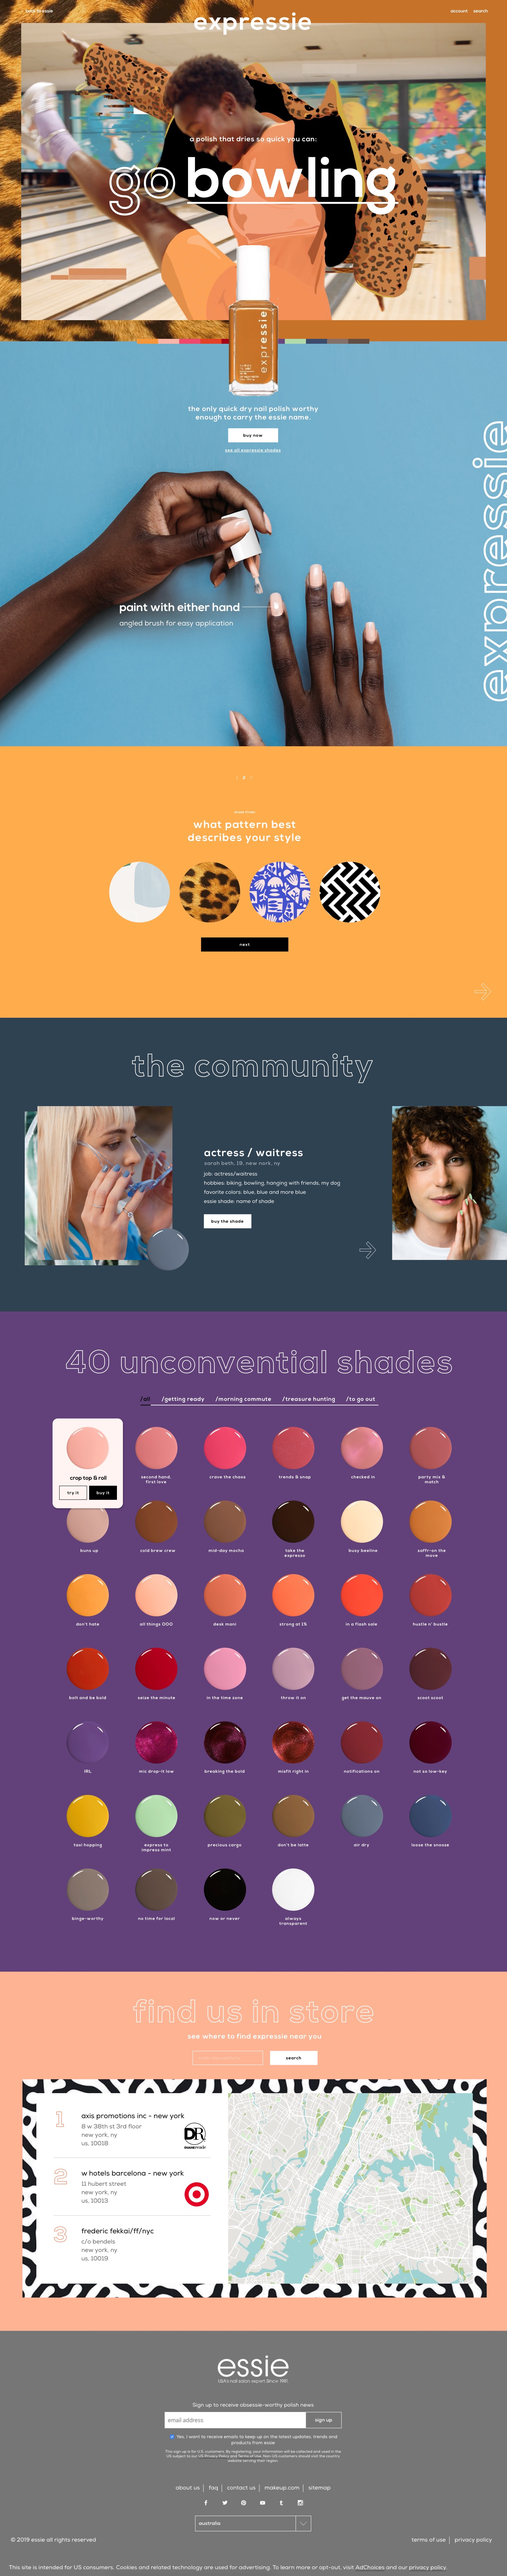
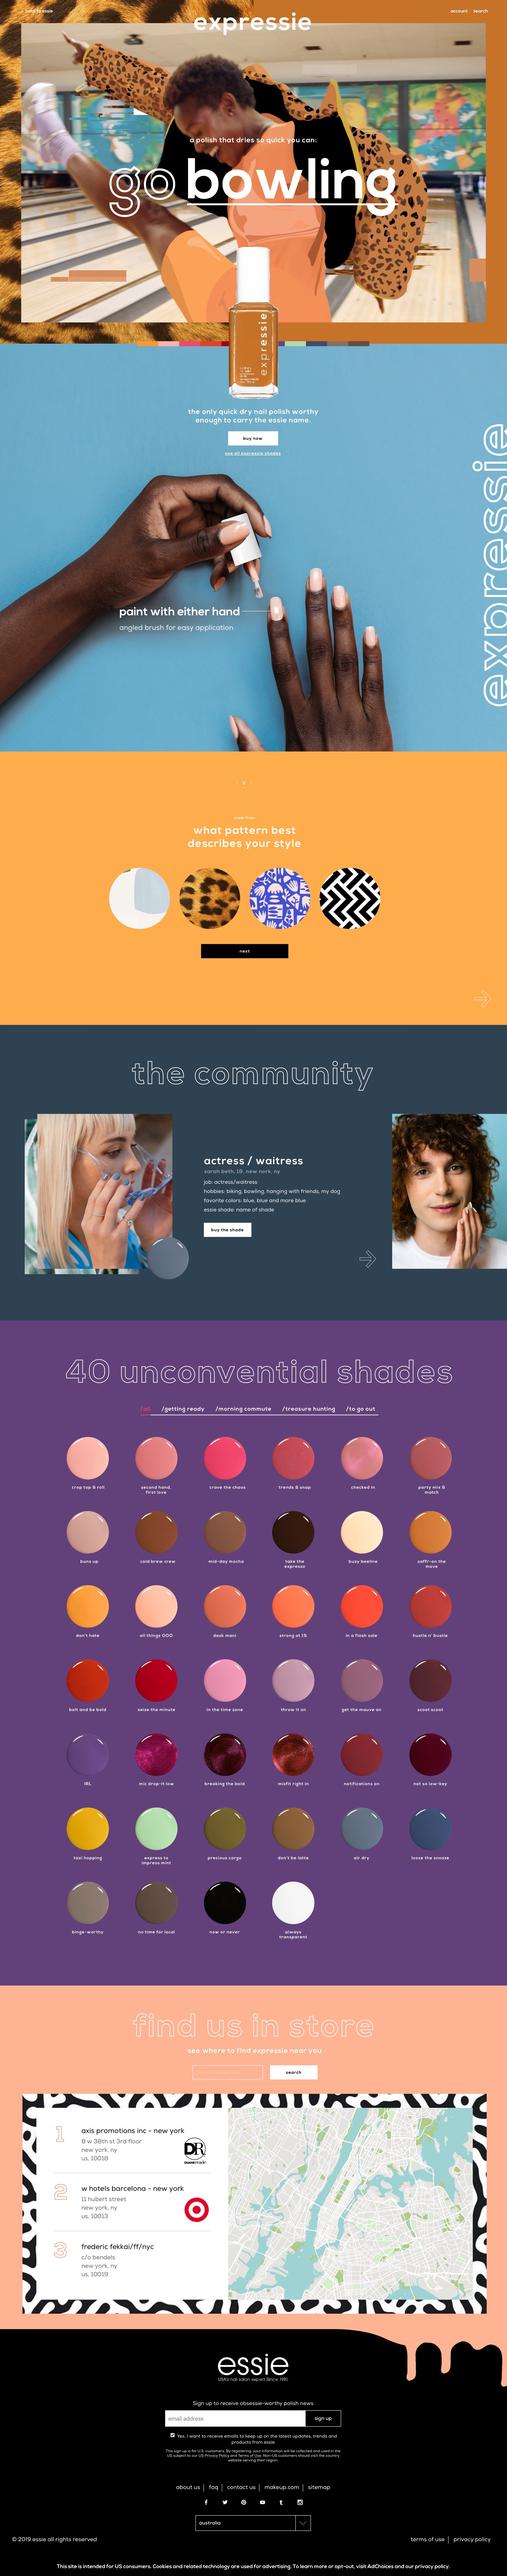
Dripping Footer

diff --git a/essie/index.hyperesources/index_hype_generated_script.js b/essie/index.hyperesources/index_hype_generated_script.js
@@ -3,5 +3,5 @@
 (function(){(function k(){function l(a,b,d){var c=!1;null==window[a]&&(null==window[b]?(window[b]=[],window[b].push(k),a=document.getElementsByTagName("head")[0],b=document.createElement("script"),c=h,false==!0&&(c=""),b.type="text/javascript",b.src=c+"/"+d,a.appendChild(b)):window[b].push(k),c=!0);return c}var h="index.hyperesources",c="index",e="index_hype_container";if(false==!1)try{for(var f=document.getElementsByTagName("script"),
 a=0;a<f.length;a++){var b=f[a].src,d=null!=b?b.indexOf("/index_hype_generated_script.js"):-1;if(-1!=d){h=b.substr(0,d);break}}}catch(n){}if(false==!1&&(a=navigator.userAgent.match(/MSIE (\d+\.\d+)/),a=parseFloat(a&&a[1])||null,a=l("HYPE_600","HYPE_dtl_600",!0==(null!=a&&10>a||false==!0)?"HYPE-600.full.min.js":"HYPE-600.thin.min.js"),false==!0&&(a=a||l("HYPE_w_600","HYPE_wdtl_600","HYPE-600.waypoints.min.js")),a))return;f=window.HYPE.documents;
 if(null!=f[c]){b=1;a=c;do c=""+a+"-"+b++;while(null!=f[c]);d=document.getElementsByTagName("div");b=!1;for(a=0;a<d.length;a++)if(d[a].id==e&&null==d[a].getAttribute("HYP_dn")){var b=1,g=e;do e=""+g+"-"+b++;while(null!=document.getElementById(e));d[a].id=e;b=!0;break}if(!1==b)return}b=[];b=[];d={};g={};for(a=0;a<b.length;a++)try{g[b[a].identifier]=b[a].name,d[b[a].name]=eval("(function(){return "+b[a].source+"})();")}catch(m){window.console&&window.console.log(m),d[b[a].name]=
-function(){}}a=new HYPE_600(c,e,{"10":{p:1,n:"Button%20Glitch%202_2x.png",g:"19",o:true,t:"@2x"},"2":{p:1,n:"Landing%20Page.jpg",g:"5",o:true,t:"@1x"},"-2":{n:"blank.gif"},"3":{p:1,n:"Landing%20Page_2x.jpg",g:"5",o:true,t:"@2x"},"11":{p:1,n:"Button%20Glitch%201.png",g:"21",o:true,t:"@1x"},"4":{p:1,n:"Bottle.png",g:"11",o:true,t:"@1x"},"5":{p:1,n:"Bottle_2x.png",g:"11",o:true,t:"@2x"},"12":{p:1,n:"Button%20Glitch%201_2x.png",g:"21",o:true,t:"@2x"},"6":{n:"essie%20Pitch_Hero%20Animation.mov",g:"7",t:"video/quicktime"},"7":{n:"essie%20Pitch_Hero%20Animation.mp4",g:"7",t:"video/mp4"},"-1":{n:"PIE.htc"},"0":{p:1,n:"Black.png",g:"13",o:true,t:"@1x"},"8":{p:1,n:"Shade.png",g:"9",t:"@1x"},"1":{p:1,n:"Black_2x.png",g:"13",o:true,t:"@2x"},"9":{p:1,n:"Button%20Glitch%202.png",g:"19",o:true,t:"@1x"}},h,[],d,[{n:"Untitled Scene",o:"1",X:[0]}],[{o:"3",p:"600px",cA:false,Y:1440,Z:7315,L:[],c:"#FFFFFF",bY:1,d:1440,U:{},T:{"24":{i:"24",n:"Button Glitch",z:0.12,b:[],a:[{f:"c",y:0,z:0.03,i:"e",e:1,s:0,o:"33"},{f:"c",y:0.03,z:0.03,i:"e",e:0,s:1,o:"33"},{f:"c",y:0.06,z:0.03,i:"e",e:1,s:0,o:"32"},{y:0.06,i:"e",s:0,z:0,o:"33",f:"c"},{f:"c",y:0.09,z:0.03,i:"e",e:0,s:1,o:"32"},{y:0.12,i:"e",s:0,z:0,o:"32",f:"c"}],f:30},kTimelineDefaultIdentifier:{i:"kTimelineDefaultIdentifier",n:"Main Timeline",z:6.21,b:[],a:[{y:0,p:1,i:"Video Track",z:6.21,o:"29",f:"a"}],f:30}},bZ:180,O:["29","28","30","31","27","26","33","32","34","35"],n:"Untitled Layout","_":0,v:{"26":{h:"9",p:"no-repeat",x:"visible",a:291,q:"100% 100%",b:961,j:"absolute",dB:"img",z:5,k:"div",c:800,d:17,r:"inline"},"34":{k:"div",x:"visible",c:174,d:72,z:7,a:633,j:"absolute",b:1200},"29":{aR:"1",x:"visible",bE:"7",a:0,b:0,j:"absolute",bF:"28",c:1441,k:"video",z:2,d:1148,aO:"0",aQ:"1",aH:"1"},"32":{h:"19",p:"no-repeat",x:"visible",a:1,q:"100% 100%",b:1,j:"absolute",dB:"img",z:1,k:"div",bF:"34",d:71,c:173,r:"inline",e:0},"27":{h:"11",p:"no-repeat",x:"visible",a:646,q:"100% 100%",b:697,j:"absolute",dB:"img",z:6,k:"div",c:145,d:445,r:"inline"},"35":{c:143,d:46,I:"None",J:"None",K:"None",L:"None",M:0,N:0,bF:"34",A:"#D8DDE4",x:"visible",j:"absolute",B:"#D8DDE4",k:"div",O:0,C:"#D8DDE4",z:3,P:0,D:"#D8DDE4",aC:{a:[{b:"24",p:3,z:true,symbolOid:"2"}]},a:15,aD:{a:[{b:"24",p:3,z:false,symbolOid:"2"}]},b:12},"30":{h:"5",p:"no-repeat",x:"visible",a:0,q:"100% 100%",b:0,j:"absolute",dB:"img",z:1,k:"div",c:1440,d:7315,r:"inline"},"33":{h:"21",p:"no-repeat",x:"visible",a:0,q:"100% 100%",b:0,j:"absolute",dB:"img",z:2,k:"div",bF:"34",d:71,c:173,r:"inline",e:0},"28":{k:"div",x:"hidden",c:1441,d:976,z:2,a:-1,j:"absolute",b:-2},"31":{h:"13",p:"no-repeat",x:"visible",a:18,q:"100% 100%",b:26,j:"absolute",dB:"img",z:4,k:"div",c:1400,d:12,r:"none"}}}],{},g,{},null,false,true,-1,true,true,false,true);f[c]=a.API;document.getElementById(e).setAttribute("HYP_dn",
+function(){}}a=new HYPE_600(c,e,{"10":{p:1,n:"Button%20Glitch%201_2x.png",g:"21",o:true,t:"@2x"},"2":{p:1,n:"Bottle.png",g:"11",o:true,t:"@1x"},"-2":{n:"blank.gif"},"3":{p:1,n:"Bottle_2x.png",g:"11",o:true,t:"@2x"},"11":{p:1,n:"shades%20hover.png",g:"27",o:true,t:"@1x"},"4":{n:"essie%20Pitch_Hero%20Animation.mov",g:"7",t:"video/quicktime"},"5":{n:"essie%20Pitch_Hero%20Animation.mp4",g:"7",t:"video/mp4"},"12":{p:1,n:"shades%20hover_2x.png",g:"27",o:true,t:"@2x"},"6":{p:1,n:"Shade.png",g:"9",t:"@1x"},"13":{p:1,n:"Landing%20Page.jpg",g:"26",o:true,t:"@1x"},"7":{p:1,n:"Button%20Glitch%202.png",g:"19",o:true,t:"@1x"},"-1":{n:"PIE.htc"},"0":{p:1,n:"Black.png",g:"13",o:true,t:"@1x"},"8":{p:1,n:"Button%20Glitch%202_2x.png",g:"19",o:true,t:"@2x"},"14":{p:1,n:"Landing%20Page_2x.jpg",g:"26",o:true,t:"@2x"},"1":{p:1,n:"Black_2x.png",g:"13",o:true,t:"@2x"},"9":{p:1,n:"Button%20Glitch%201.png",g:"21",o:true,t:"@1x"}},h,[],d,[{n:"Untitled Scene",o:"1",X:[0]}],[{o:"3",p:"600px",cA:false,Y:1440,Z:7315,L:[],c:"#FFFFFF",bY:1,d:1440,U:{},T:{"24":{i:"24",n:"Button Glitch",z:0.12,b:[],a:[{f:"c",y:0,z:0.03,i:"e",e:1,s:0,o:"39"},{f:"c",y:0.03,z:0.03,i:"e",e:0,s:1,o:"39"},{f:"c",y:0.06,z:0.03,i:"e",e:1,s:0,o:"38"},{y:0.06,i:"e",s:0,z:0,o:"39",f:"c"},{f:"c",y:0.09,z:0.03,i:"e",e:0,s:1,o:"38"},{y:0.12,i:"e",s:0,z:0,o:"38",f:"c"}],f:30},"31":{i:"31",n:"Shade Color State",z:0.04,b:[],a:[{f:"c",y:0,z:0.02,i:"e",e:1,s:1,o:"44"},{f:"c",y:0,z:0.04,i:"e",e:1,s:0,o:"42"},{y:0.02,i:"e",s:1,z:0,o:"44",f:"c"},{y:0.04,i:"e",s:1,z:0,o:"42",f:"c"}],f:30},kTimelineDefaultIdentifier:{i:"kTimelineDefaultIdentifier",n:"Main Timeline",z:6.21,b:[],a:[{y:0,p:1,i:"Video Track",z:6.21,o:"35",f:"a"}],f:30}},bZ:180,O:["35","34","36","37","33","32","39","38","40","41","42","43","44"],n:"Untitled Layout","_":0,v:{"42":{h:"27",p:"no-repeat",x:"visible",a:0,q:"100% 100%",b:0,j:"absolute",dB:"img",z:1,k:"div",bF:"43",d:298,c:233,r:"inline",e:0},"36":{h:"26",p:"no-repeat",x:"visible",a:0,q:"100% 100%",b:0,j:"absolute",dB:"img",z:1,k:"div",c:1440,d:7315,r:"inline"},"32":{h:"9",p:"no-repeat",x:"visible",a:291,q:"100% 100%",b:961,j:"absolute",dB:"img",z:5,k:"div",c:800,d:17,r:"inline"},"37":{h:"13",p:"no-repeat",x:"visible",a:18,q:"100% 100%",b:26,j:"absolute",dB:"img",z:4,k:"div",c:1400,d:12,r:"none"},"43":{k:"div",x:"visible",c:233,d:298,z:7,a:131,j:"absolute",b:4006},"33":{h:"11",p:"no-repeat",x:"visible",a:646,q:"100% 100%",b:697,j:"absolute",dB:"img",z:6,k:"div",c:145,d:445,r:"inline"},"38":{h:"19",p:"no-repeat",x:"visible",a:1,q:"100% 100%",b:1,j:"absolute",dB:"img",z:1,k:"div",bF:"40",d:71,c:173,r:"inline",e:0},"44":{c:202,d:259,I:"None",e:1,J:"None",K:"None",L:"None",M:0,N:0,bF:"43",A:"#D8DDE4",x:"visible",j:"absolute",B:"#D8DDE4",k:"div",O:0,C:"#D8DDE4",z:2,P:0,D:"#D8DDE4",aC:{a:[{b:"31",p:3,z:true,symbolOid:"2"}]},a:15,aD:{a:[{b:"31",p:3,z:false,symbolOid:"2"}]},b:19},"34":{k:"div",x:"hidden",c:1441,d:976,z:2,a:-1,j:"absolute",b:-2},"40":{k:"div",x:"visible",c:174,d:72,z:9,a:633,j:"absolute",b:1200},"39":{h:"21",p:"no-repeat",x:"visible",a:0,q:"100% 100%",b:0,j:"absolute",dB:"img",z:2,k:"div",bF:"40",d:71,c:173,r:"inline",e:0},"35":{aR:"1",x:"visible",bE:"7",a:0,b:0,j:"absolute",bF:"34",c:1441,k:"video",z:2,d:1148,aO:"0",aQ:"1",aH:"1"},"41":{c:143,d:46,I:"None",J:"None",K:"None",L:"None",M:0,N:0,bF:"40",A:"#D8DDE4",x:"visible",j:"absolute",B:"#D8DDE4",k:"div",O:0,C:"#D8DDE4",z:3,P:0,D:"#D8DDE4",aC:{a:[{b:"24",p:3,z:true,symbolOid:"2"}]},a:15,aD:{a:[{b:"24",p:3,z:false,symbolOid:"2"}]},b:12}}}],{},g,{},null,false,true,-1,true,true,false,true);f[c]=a.API;document.getElementById(e).setAttribute("HYP_dn",
 c);a.z_o(this.body)})();})();

diff --git a/essie/index.html b/essie/index.html
@@ -24,7 +24,7 @@
 	<!-- copy these lines to your document: -->
 
 	<div id="index_hype_container" style="margin:auto;position:relative;width:1440px;height:7315px;overflow:hidden;">
-		<script type="text/javascript" charset="utf-8" src="index.hyperesources/index_hype_generated_script.js?5027"></script>
+		<script type="text/javascript" charset="utf-8" src="index.hyperesources/index_hype_generated_script.js?79793"></script>
 	</div>
 
 	<!-- end copy -->
